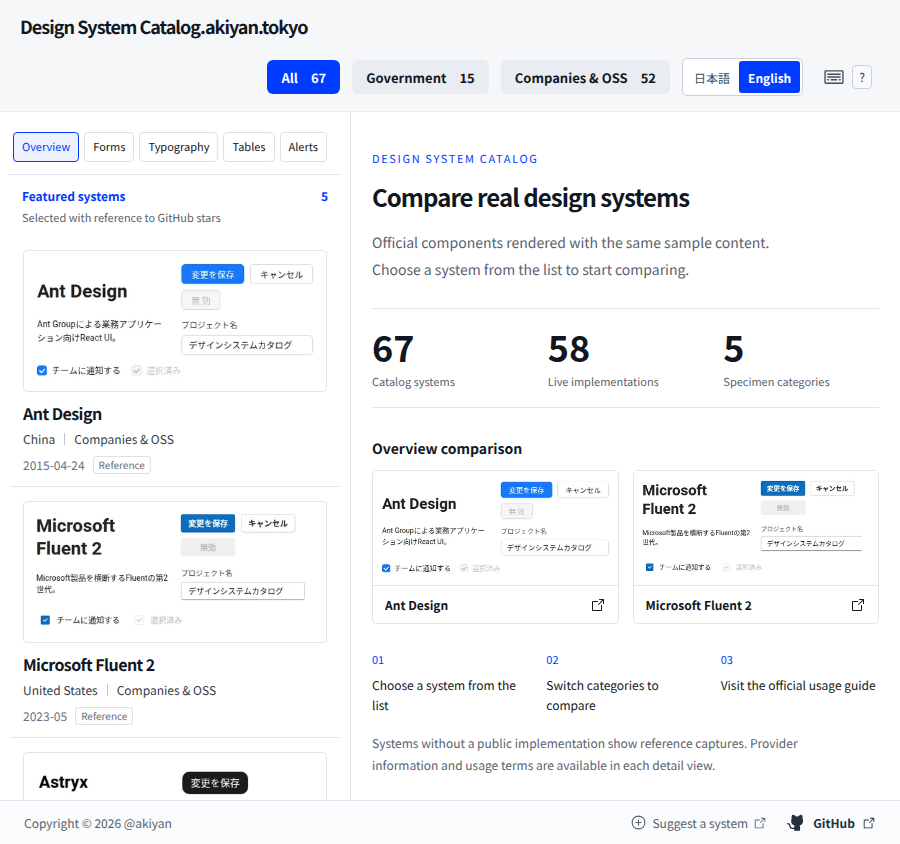
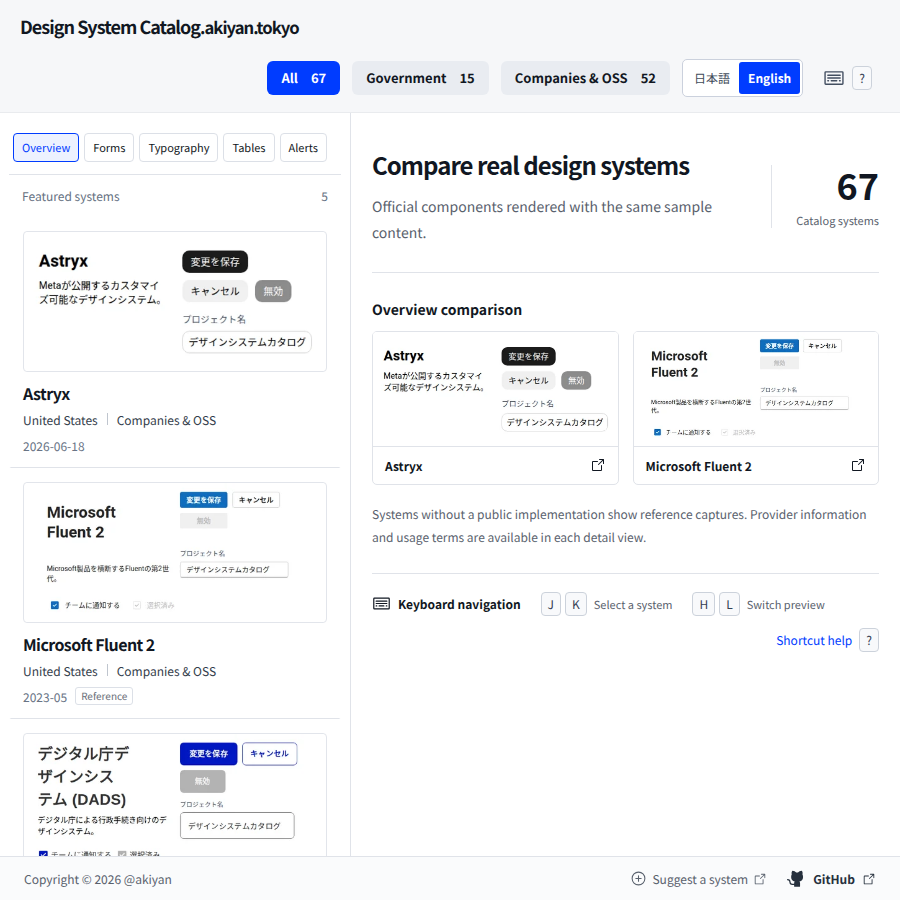
Simplify and rebalance the catalog introduction

diff --git a/src/styles.css b/src/styles.css
@@ -94,8 +94,9 @@ a.system-row{cursor:pointer}
 
 .footer-links{display:flex;align-items:center;gap:20px}.addition-request{display:flex;align-items:center;gap:5px;white-space:nowrap}.addition-request:hover{text-decoration:underline}@media(max-width:700px){.site-footer{flex-wrap:wrap;gap:8px;flex-shrink:0}.footer-links{gap:12px}.addition-request{gap:4px}.addition-request svg{width:14px}}
 
+.site-domain{font-size:calc(1em - 1pt)}
 .mobile-site-title{display:none}.site-title{font-size:clamp(18px,1.8vw,26px)}
-.catalog-introduction{max-width:920px;padding:18px 4px 30px}.welcome-eyebrow{font-size:11px;letter-spacing:.15em;color:var(--blue);margin:0 0 14px}.catalog-introduction h1{font-size:clamp(24px,2.4vw,34px);line-height:1.45;letter-spacing:-.04em;margin:0 0 14px}.welcome-intro{font-size:14px;line-height:1.9;color:var(--muted);max-width:56ch;margin:0 0 26px}.welcome-stats{display:grid;grid-template-columns:repeat(3,minmax(0,1fr));margin:0 0 30px;padding:18px 0;border-block:1px solid var(--line);gap:20px}.welcome-stats>div{display:flex;flex-direction:column-reverse;gap:6px}.welcome-stats dt{font-size:11px;color:var(--muted)}.welcome-stats dd{font-size:36px;line-height:1.1;font-weight:700;font-variant-numeric:tabular-nums;margin:0}.catalog-introduction h2{font-size:14px;margin:0 0 12px}.welcome-examples{display:grid;grid-template-columns:repeat(2,minmax(0,1fr));gap:14px}.welcome-examples a{border:1px solid var(--line);border-radius:5px;overflow:hidden}.welcome-examples a:hover{border-color:var(--blue)}.welcome-examples img{width:100%;aspect-ratio:480/224;object-fit:contain;background:#fff}.welcome-examples a>span{display:flex;align-items:center;justify-content:space-between;padding:10px 12px;border-top:1px solid var(--line);font-size:12px;font-weight:600}.welcome-steps{list-style:none;padding:0;margin:26px 0 16px;display:grid;grid-template-columns:repeat(3,minmax(0,1fr));gap:16px}.welcome-steps li{font-size:12px;line-height:1.7}.welcome-steps li>span{display:block;color:var(--blue);font-size:11px;font-variant-numeric:tabular-nums;margin-bottom:6px}.welcome-sources{font-size:12px;line-height:1.9;color:var(--muted);margin:0 0 24px;max-width:65ch}.welcome-keyboard{border-top:1px solid var(--line);padding-top:18px}.welcome-keyboard h2{display:flex;align-items:center;gap:7px}.welcome-keyboard dl{display:flex;flex-wrap:wrap;gap:12px 28px;margin:0 0 14px}.welcome-keyboard dl>div{display:flex;align-items:center;gap:9px}.welcome-keyboard dt{display:flex;gap:5px}.welcome-keyboard dd{font-size:12px;color:var(--muted);margin:0}.welcome-keyboard>button{display:flex;align-items:center;gap:10px;color:var(--blue);padding:0;font-size:12px}
+ .catalog-introduction{max-width:920px;padding:14px 4px 24px}.welcome-header{display:grid;grid-template-columns:minmax(0,1fr) auto;gap:28px;align-items:center;margin-bottom:26px;padding-bottom:26px;border-bottom:1px solid var(--line)}.catalog-introduction h1{font-size:clamp(24px,2.1vw,30px);line-height:1.5;letter-spacing:-.04em;margin:0 0 10px;text-wrap:balance}.welcome-intro{font-size:14px;line-height:1.9;color:var(--muted);margin:0}.welcome-stats{margin:0;padding-left:24px;border-left:1px solid var(--line)}.welcome-stats>div{display:flex;flex-direction:column-reverse;align-items:flex-end;gap:7px}.welcome-stats dt{font-size:11px;color:var(--muted);white-space:nowrap}.welcome-stats dd{font-size:36px;line-height:1.1;font-weight:700;font-variant-numeric:tabular-nums;margin:0}.catalog-introduction h2{font-size:14px;margin:0 0 12px}.welcome-examples{display:grid;grid-template-columns:repeat(2,minmax(0,1fr));gap:14px}.welcome-examples a{border:1px solid var(--line);border-radius:5px;overflow:hidden}.welcome-examples a:hover{border-color:var(--blue)}.welcome-examples img{width:100%;aspect-ratio:480/224;object-fit:contain;background:#fff}.welcome-examples a>span{display:flex;align-items:center;justify-content:space-between;padding:10px 12px;border-top:1px solid var(--line);font-size:12px;font-weight:600}.welcome-sources{font-size:12px;line-height:1.9;color:var(--muted);margin:18px 0 24px}.welcome-keyboard{display:flex;align-items:center;flex-wrap:wrap;gap:12px 20px;border-top:1px solid var(--line);padding-top:18px}.welcome-keyboard h2{display:flex;align-items:center;gap:7px;margin:0;font-size:12px}.welcome-keyboard dl{display:flex;flex-wrap:wrap;gap:12px 20px;margin:0}.welcome-keyboard dl>div{display:flex;align-items:center;gap:7px}.welcome-keyboard dt{display:flex;gap:4px}.welcome-keyboard dd{font-size:11px;color:var(--muted);margin:0}.welcome-keyboard>button{display:flex;align-items:center;gap:7px;color:var(--blue);padding:0;font-size:12px;margin-left:auto}
 @media(max-width:700px){.desktop-site-title{display:none}.mobile-site-title{display:inline}.site-title{font-size:19px}}
 
 .system-kind{display:inline-block;margin-top:6px;font-size:10px;color:#59616d;border:1px solid var(--line);border-radius:3px;padding:2px 5px}.unstyled-note{margin:0 0 12px;padding:10px 12px;background:#f6f7f9;border:1px solid var(--line);border-radius:4px}

diff --git a/src/CatalogIntroduction.jsx b/src/CatalogIntroduction.jsx
@@ -1,16 +1,14 @@
 import {ArrowSquareOut,Keyboard} from '@phosphor-icons/react';
-import {specimenCategories,systemName,systemPath} from './catalog';
+import {systemName,systemPath} from './catalog';
 const copy={
- ja:{heading:'公開デザインシステムを実物で比較',intro:'各システムの公式コンポーネントを同じ内容で表示するカタログです。左の一覧から選んで比較を始めてください。',systems:'掲載システム',implementations:'実装プレビュー',categories:'比較カテゴリ',examples:'全体像の比較例',steps:['一覧からシステムを選択','カテゴリを切り替えて比較','公式サイトで使い方を確認'],sources:'公開実装がないシステムには公式資料のキャプチャを掲載しています。提供元と利用条件も各詳細で確認できます。',keyboard:'キーボード操作',select:'システムを選択',preview:'プレビューを切り替え',help:'操作ヘルプ'},
- en:{heading:'Compare real design systems',intro:'Official components rendered with the same sample content. Choose a system from the list to start comparing.',systems:'Catalog systems',implementations:'Live implementations',categories:'Specimen categories',examples:'Overview comparison',steps:['Choose a system from the list','Switch categories to compare','Visit the official usage guide'],sources:'Systems without a public implementation show reference captures. Provider information and usage terms are available in each detail view.',keyboard:'Keyboard navigation',select:'Select a system',preview:'Switch preview',help:'Shortcut help'}
+ ja:{heading:'公開デザインシステムを実物で比較',intro:'各システムの公式コンポーネントを同じ内容で表示するカタログです。',systems:'掲載システム',examples:'全体像の比較例',sources:'公開実装がないシステムには公式資料のキャプチャを掲載しています。提供元と利用条件も各詳細で確認できます。',keyboard:'キーボード操作',select:'システムを選択',preview:'プレビューを切り替え',help:'操作ヘルプ'},
+ en:{heading:'Compare real design systems',intro:'Official components rendered with the same sample content.',systems:'Catalog systems',examples:'Overview comparison',sources:'Systems without a public implementation show reference captures. Provider information and usage terms are available in each detail view.',keyboard:'Keyboard navigation',select:'Select a system',preview:'Switch preview',help:'Shortcut help'}
 };
 export default function CatalogIntroduction({systems,language,ready,onSelect,onHelp}){
  const t=copy[language];const examples=systems.filter(s=>s.specimen.status==='ready').slice(0,2);
  return <div className="catalog-introduction">
-  <p className="welcome-eyebrow">DESIGN SYSTEM CATALOG</p><h1>{t.heading}</h1><p className="welcome-intro">{t.intro}</p>
-  <dl className="welcome-stats">{[[systems.length,t.systems],[systems.filter(s=>s.specimen.status==='ready').length,t.implementations],[Object.keys(specimenCategories).length,t.categories]].map(([value,label])=><div key={label}><dt>{label}</dt><dd>{value}</dd></div>)}</dl>
+  <div className="welcome-header"><div className="welcome-copy"><h1>{t.heading}</h1><p className="welcome-intro">{t.intro}</p></div><dl className="welcome-stats"><div><dt>{t.systems}</dt><dd>{systems.length}</dd></div></dl></div>
   <section><h2>{t.examples}</h2><div className="welcome-examples">{examples.map(s=><a key={s.id} href={systemPath(s)} onClick={event=>{if(!ready||event.metaKey||event.ctrlKey||event.shiftKey||event.altKey||event.button!==0)return;event.preventDefault();onSelect(s)}}><img src={`/specimens/list-thumbnails/${s.id}-overview.webp`} alt={systemName(s,language)} width="480" height="224"/><span>{systemName(s,language)}<ArrowSquareOut size={16}/></span></a>)}</div></section>
-  <ol className="welcome-steps">{t.steps.map((step,index)=><li key={step}><span aria-hidden="true">0{index+1}</span>{step}</li>)}</ol>
   <p className="welcome-sources">{t.sources}</p>
   <section className="welcome-keyboard"><h2><Keyboard size={19}/>{t.keyboard}</h2><dl><div><dt><kbd>J</kbd><kbd>K</kbd></dt><dd>{t.select}</dd></div><div><dt><kbd>H</kbd><kbd>L</kbd></dt><dd>{t.preview}</dd></div></dl><button type="button" disabled={!ready} onClick={onHelp}>{t.help}<kbd>?</kbd></button></section>
  </div>;

diff --git a/src/App.jsx b/src/App.jsx
@@ -264,7 +264,7 @@ export function App({ githubUrl = 'https://github.com/akiyan/design-system-catal
   return <div className={`catalog-app ${mobilePreview ? 'mobile-detail' : ''}`} data-ready={ready}>
     <a className="skip-link" href="#catalog-list">{t.skip}</a>
     <header className="site-header">
-      <a className="site-title" href="/"><span className="desktop-site-title">{t.siteTitle}</span><span className="mobile-site-title">{t.title}</span></a>
+      <a className="site-title" href="/"><span className="desktop-site-title">{t.title}<span className="site-domain">.akiyan.tokyo</span></span><span className="mobile-site-title">{t.title}</span></a>
       <div className="header-controls">
         <nav className="filters" aria-label={t.category}>
           {categories.map(id => <button key={id} type="button" disabled={!ready} aria-pressed={category === id} className={category === id ? 'filter active' : 'filter'} onClick={() => chooseCategory(id)}>{t[id]}<span>{id === 'all' ? systems.length : systems.filter(s => s.category === id).length}</span></button>)}

diff --git a/docs/design-qa.md b/docs/design-qa.md
@@ -124,3 +124,9 @@ The featured group is curated explicitly as Astryx, Fluent 2, Digital Agency (DA
 Final local verification: all 140 browser checks passed in 13.2 seconds. Updated publication order is reflected in category filters, system navigation, swipes and keyboard boundaries. Both full and compact capture manifests contain 176 successful views. A clean frozen pnpm install and pnpm build complete successfully. The Issue form YAML is valid and GitHub Issues are enabled.
 
 Production verification: all 140 browser checks passed in 19.7 seconds against https://design-system-catalog.akiyan.tokyo after deployment https://3b881e0b.design-system-catalog-925.pages.dev (source commit 7e96127). The mobile preview navigation check waits for the genuine specimen to finish loading and its measured iframe height to settle before clicking the category control; three repeated production runs also passed.
+
+## Simplified introduction layout — 2026-11-10
+
+The introduction keeps only the catalog-system count, positioned beside the heading. Removed the three obvious choose/switch/visit steps and the redundant selection instruction in both languages. Real specimen comparison examples follow the heading directly; keyboard hints share a compact footer row. Retained the established list/detail split and genuine specimen captures. Desktop branding renders the .akiyan.tokyo suffix exactly one typographic point smaller than the site name without changing document titles. Compared before/after captures at 1440px and checked the English layout at 900px; no horizontal overflow at 701, 900 or 1440px.
+
+Static pnpm build passed; all 140 browser checks passed against the local production build in 12.9 seconds.

diff --git a/AGENTS.md b/AGENTS.md
@@ -103,3 +103,8 @@ Build app UI in `src/`. Keep `.openai/hosting.json`, `worker/index.js`, `scripts
 - Rich typography list captures may use a compact two-column article excerpt with the first long paragraph and rich-text samples. Live typography keeps every paragraph and expands the iframe height to avoid clipping long mobile specimens.
 
 - Featured systems are Astryx, Fluent 2, Digital Agency (DADS), Ant Design and Primer, sorted newest public release first. Exclude React Aria from this group. Remove the GitHub-star selection note. Clearly identify unstyled/headless libraries in list rows and before live previews; retain their genuine unstyled appearance.
+
+- Display the desktop header suffix `.akiyan.tokyo` one typographic point smaller than the main site name in both languages. Keep the full document title unchanged.
+- Omit instructions that are already apparent from the layout. Do not show introductory choose/switch/visit steps or tell visitors to select an item from the visible list.
+- On the home introduction show only the catalog system count. Omit implementation and category counts.
+- The simplified home introduction places its sole system count beside the heading, followed by genuine comparison examples. Keep keyboard hints compact below the examples; avoid a separate full-width statistics band.
